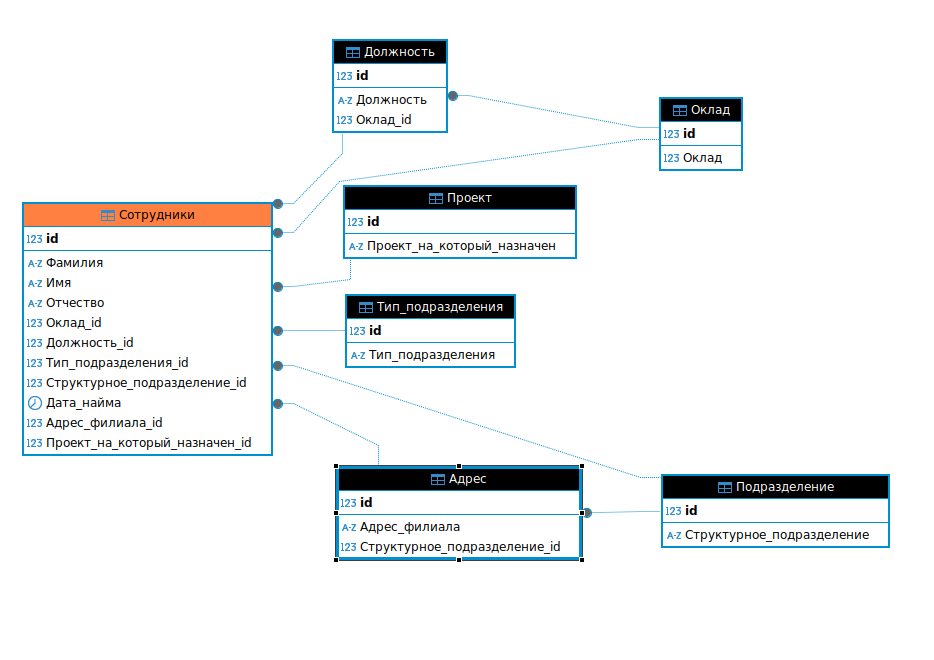
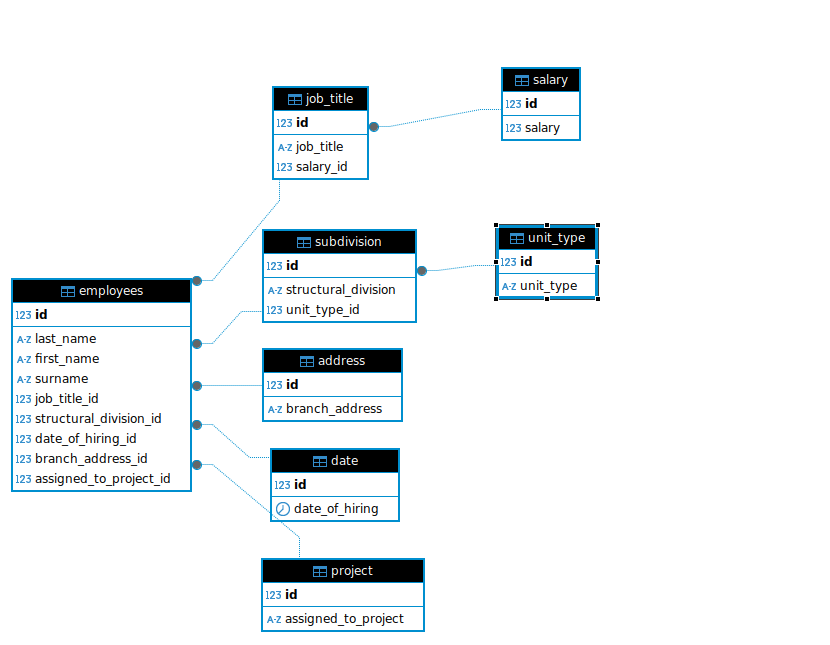
main, komment

Changed region(s): [[0.0, 0.062, 0.7229, 0.9922], [0.512, 0.093, 0.8133, 0.2791], [0.6928, 0.7132, 0.9639, 0.8372]]

diff --git a/README.md b/README.md
@@ -19,7 +19,7 @@
 ---
 ### Легенда
 
-Заказчик передал вам ![файл в формате Excel](https://github.com/travickiy67/Relational-databases-_Databases/blob/main/files/hw-12-1.xlsx), в котором сформирован отчёт. 
+Заказчик передал вам [файл в формате Excel](https://github.com/travickiy67/Relational-databases-_Databases/blob/main/files/hw-12-1.xlsx), в котором сформирован отчёт. 
 
 На основе этого отчёта нужно выполнить следующие задания.
 
@@ -28,7 +28,12 @@
 Опишите не менее семи таблиц, из которых состоит база данных:
 
 - какие данные хранятся в этих таблицах;
+
+**Фамиля, имя, отчество, должность, оклад, тип подразделения, структурное подразделение, адрес, датаа найма, проект которым занимается сотрудник**
+
 - какой тип данных у столбцов в этих таблицах, если данные хранятся в PostgreSQL.
+
+**serial, character varying(varchar), money, date**  
 
 Приведите решение к следующему виду:
 
@@ -39,91 +44,100 @@
 - ...
 - идентификатор структурного подразделения, внешний ключ, integer).
 
-**Пересмотреев еще раз лекцию и  поискв в интернете, своял такой код. Дату приема на работу в отдельную таблицу не выводил. Код рабочий. Таблица получилась. Первая табличка в этом коде создается последней. Она ссылается на все таблицы**  
+**Код для создания таблиц** 
 
 ```
-create table Сотрудники(
+create table salary(
 id SERIAL primary key,
-Фамилия varchar(50) not null,
-Имя varchar(50) not null,
-Отчество varchar(50) not null,
-Оклад_id int not null,
-constraint fk_оклад foreign key(Оклад_id) references Оклад(id),
-Должность_id int not null,
-constraint fk_должность foreign key(Должность_id) references Должность(id),
-Тип_подразделения_id int not null,
-constraint fk_тип_подразделения foreign key(Тип_подразделения_id) references Тип_подразделения(id),
-Структурное_подразделение_id int not null,
-constraint fk_подразделения foreign key(Структурное_подразделение_id) references Подразделение(id),
-Дата_найма date not null,
-Адрес_филиала_id int not null,
-constraint fk_адрес_филиала foreign key(Адрес_филиала_id) references Адрес(id),
-Проект_на_который_назначен_id int not null,
-constraint fk_project foreign key(Проект_на_который_назначен_id) references Проект(id)
-)
+salary money not null
+);
 
-create table Оклад(
+create table job_title(
 id SERIAL primary key,
-Оклад money not null
-)
+job_title varchar(100) not null,
+salary_id INTEGER not null,
+constraint fk_salary foreign key (salary_id) references salary(id)
+);
 
-create table Должность (
-id SERIAL primary key,
-Должность varchar(100) not null,
-Оклад_id INTEGER not null,
-constraint fk_оклад foreign key(Оклад_id) references Оклад(id)
-)
-
-create table Проект (
+create table project (
 id SERIAL primary key, 
-Проект_на_который_назначен VARCHAR(100) not null 
-)
+assigned_to_project VARCHAR (100) not null 
+);
 
-create table Подразделение (
+create table address(
 id SERIAL primary key,
-Структурное_подразделение VARCHAR(200) not null 
-)
+branch_address varchar(100) not null
+);
 
-create table Тип_подразделения (
+create table unit_type(
 id SERIAL primary key,
-Тип_подразделения VARCHAR(100) not null
-)
+unit_type VARCHAR(100) not null
+);
 
-
-create table Адрес(
+create table subdivision (
 id SERIAL primary key,
-Адрес_филиала varchar(100) not null,
-Структурное_подразделение_id int not null,
-constraint fk_структурное_подразделение foreign key(Структурное_подразделение_id) references Подразделение(id)
-)
+structural_division VARCHAR(200) not null, 
+unit_type_id int not null,
+constraint fk_unit_type foreign key (unit_type_id) references unit_type(id)
+);
+
+create table date(
+id SERIAL primary key,
+date_of_hiring date not null
+);
+
+create table employees(
+id SERIAL primary key,
+last_name varchar(50) not null,
+first_name varchar(50) not null,
+surname varchar(50) not null,
+job_title_id int not null, 
+constraint fk_job_title foreign key (job_title_id) references job_title(id),
+structural_division_id int not null,
+constraint fk_subdivision foreign key (structural_division_id) references subdivision(id),
+date_of_hiring_id int not null,
+constraint fk_date_of_hiring foreign key (date_of_hiring_id) references date(id),
+branch_address_id int not null,
+constraint fk_branch_address foreign key (branch_address_id) references address(id),
+assigned_to_project_id int not null,
+constraint fk_project foreign key (assigned_to_project_id) references project(id)
+);
+
+insert into date (date_of_hiring)  
+ values ('02.01.2023') returning id;
+
+insert into salary (salary)
+ values (100000) returning id;
+
+ insert into job_title (job_title, salary_id)
+ values ('Специалист', 1) returning id;
+ 
+ insert into project (assigned_to_project)
+ values ('NO') returning id;
+ 
+ insert into address(branch_address)
+ values ('Москва') returning id;
+ 
+ insert into unit_type(unit_type)
+ values ('Отдел') returning id;
+ 
+ insert into subdivision (structural_division, unit_type_id)
+ values ('it_отдел', 1) returning id;
+
+ insert into employees (last_name, first_name, surname, job_title_id, structural_division_id, date_of_hiring_id, branch_address_id, assigned_to_project_id)
+ values ('Травицкий', 'Сергей', 'Владимирович', 1, 1, 1, 1, 1);
+ 
 ```
 **Скрин 1-3**  
 
-![img](https://github.com/travickiy67/Relational-databases-_Databases/blob/main/img/img1.3png.png) 
+![img](https://github.com/travickiy67/Relational-databases-_Databases/blob/main/img/img1.1png.png) 
  
-![img](https://github.com/travickiy67/Relational-databases-_Databases/blob/main/img/img1.1png.png)  
-
-![img](https://github.com/travickiy67/Relational-databases-_Databases/blob/main/img/img1.2png.png)  
- 
-## Дополнительные задания (со звёздочкой*)
-Эти задания дополнительные, то есть не обязательные к выполнению, и никак не повлияют на получение вами зачёта по этому домашнему заданию. Вы можете их выполнить, если хотите глубже шире разобраться в материале.
-
-
-### Задание 2*
-
-Перечислите, какие, на ваш взгляд, в этой денормализованной таблице встречаются функциональные зависимости и какие правила вывода нужно применить, чтобы нормализовать данные.
-
-**Ни когда не занимался базами данных. Но точно первая таблица должна иметь внешние ключи на остальные таблички, оклад может ссылаться на должность, филиал поидее на адрес. Но могу ошибаться.**  
-
-*Простой запрос на получение данных из таблицы*
+![img](https://github.com/travickiy67/Relational-databases-_Databases/blob/main/img/img1.3png.png)  
 
 ```
-select  Фамилия, Имя, Отчество, Оклад, Адрес_филиала, Дата_найма FROM Сотрудники, Оклад, Адрес ;
+select  last_name, first_name, surname, salary, job_title, unit_type, structural_division, date_of_hiring, branch_address, assigned_to_project FROM employees, subdivision, unit_type, address, project, job_title, salary, date;
 ```
 
-**Скрин 1**
+![img](https://github.com/travickiy67/Relational-databases-_Databases/blob/main/img/img1.3png.png)  
+ 
 
-![img](https://github.com/travickiy67/Relational-databases-_Databases/blob/main/img/img2.2png.png)  
-
-**Правда табличку надо доработать. Возможно дублировние записей.**   
-**
